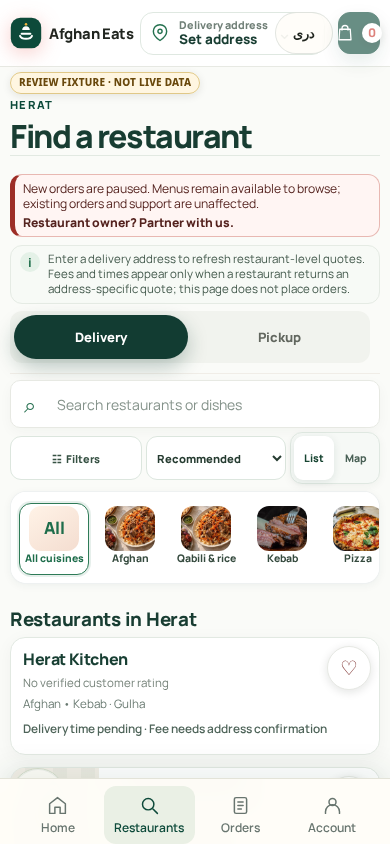
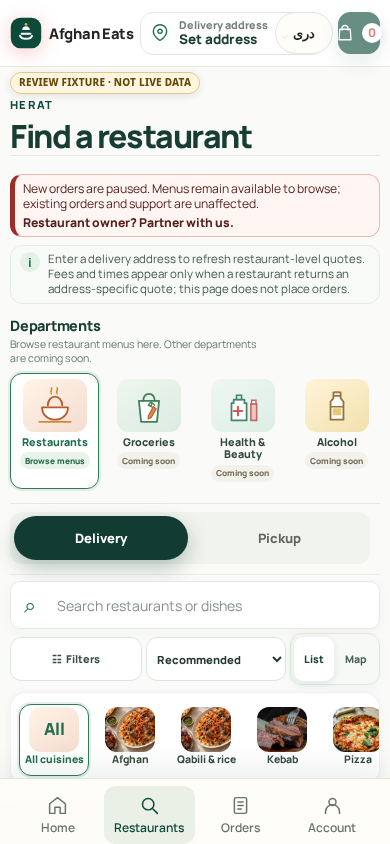
feat: add marketplace department placeholders to discovery

diff --git a/restaurants.html b/restaurants.html
@@ -19,7 +19,7 @@
   <link rel="stylesheet" href="/assets/restaurant-card-stability.css?v=20260905-2">
 <link rel="stylesheet" href="/assets/restaurants-mobile-fix.css?v=20260906-1">
 <link rel="stylesheet" href="/assets/design-2026.css?v=premium-experience-2"><link rel="stylesheet" href="/assets/premium-design-pass.css?v=premium-experience-2"><link rel="stylesheet" href="/assets/storefront.css?v=storefront-1">
-  <link rel="stylesheet" href="/assets/restaurant-listing-review.css?v=20261123-11">
+  <link rel="stylesheet" href="/assets/restaurant-listing-review.css?v=20261123-12">
 </head>
 <body class="ae-premium premium-customer restaurants-page">
   <a class="ae-skip-link" href="#restaurantGrid"><span class="en-copy">Skip to restaurant results</span><span class="fa-copy">رفتن به نتایج رستورانتها</span></a>
@@ -30,6 +30,51 @@
 <div class="actions"><button class="lang" type="button" onclick="toggleLang()" aria-label="Switch language">دری</button><a class="ae-account" href="/account"><svg class="ae-icon" width="22" height="22" viewBox="0 0 24 24" fill="none" stroke="currentColor" stroke-width="1.7" stroke-linecap="round" stroke-linejoin="round" aria-hidden="true"><circle cx="12" cy="8" r="4"/><path d="M4 21v-2a8 8 0 0 1 16 0v2"/></svg><span data-i18n="account">Account</span></a><a class="btn btn-primary ae-cart" href="/checkout" data-aria-en="Basket" data-aria-fa="سبد خرید" aria-label="Basket"><svg class="ae-icon" width="22" height="22" viewBox="0 0 24 24" fill="none" stroke="currentColor" stroke-width="1.7" stroke-linecap="round" stroke-linejoin="round" aria-hidden="true"><path d="M5 7h14l1 14H4L5 7Z"/><path d="M8 8V6a4 4 0 0 1 8 0v2"/></svg><span class="ae-cart-label"><span class="en-copy">Basket</span><span class="fa-copy">سبد</span></span><span class="cart-count badge-count">0</span></a></div></div></header>
   <main class="section soft"><div class="container">
     <div class="section-head restaurant-page-head"><div><span class="restaurant-page-kicker"><span class="en-copy">Herat</span><span class="fa-copy">هرات</span></span><h1><span class="en-copy">Find a restaurant</span><span class="fa-copy">رستورانت پیدا کنید</span></h1><p class="en-copy">Search by restaurant, dish or cuisine.</p><p class="fa-copy">بر اساس رستورانت، غذا یا دسته جستجو کنید.</p></div></div>
+    <nav class="ae-department-nav" aria-label="Marketplace departments" data-aria-en="Marketplace departments" data-aria-fa="بخشهای فروشگاه">
+      <div class="ae-department-heading"><div><h2 id="aeDepartmentHeading"><span class="en-copy">Departments</span><span class="fa-copy">بخشها</span></h2><p><span class="en-copy">Browse restaurant menus here. Other departments are coming soon.</span><span class="fa-copy">منوهای رستورانتها را اینجا ببینید؛ بخشهای دیگر بهزودی.</span></p></div></div>
+      <div class="ae-department-row">
+        <a class="ae-department-tile is-active" data-department="restaurants" href="/restaurants" aria-current="page">
+          <span class="ae-department-art art-restaurants" aria-hidden="true"><svg class="ae-department-icon" viewBox="0 0 64 56" fill="none"><path d="M22 27c0-7 4.5-12 10-12s10 5 10 12" stroke="#b75c2a" stroke-width="2.6" stroke-linecap="round"/><path d="M14 30h36c0 10-8.1 17-18 17s-18-7-18-17Z" fill="#fff" stroke="#b75c2a" stroke-width="2.6" stroke-linejoin="round"/><path d="M10 50h44M27 11c-3-3 2-5 0-8m8 8c-3-3 2-5 0-8" stroke="#d18a37" stroke-width="2.3" stroke-linecap="round"/></svg></span>
+          <strong class="ae-department-name"><span class="en-copy">Restaurants</span><span class="fa-copy">رستورانتها</span></strong>
+          <span class="ae-department-status is-available"><span class="en-copy">Browse menus</span><span class="fa-copy">دیدن منوها</span></span>
+        </a>
+        <button class="ae-department-tile is-coming-soon" data-department="groceries" type="button" disabled>
+          <span class="ae-department-art art-groceries" aria-hidden="true"><svg class="ae-department-icon" viewBox="0 0 64 56" fill="none"><path d="M18 21h28l-3 29H21l-3-29Z" fill="#fff" stroke="#43805b" stroke-width="2.5" stroke-linejoin="round"/><path d="M24 22c0-7 3-11 8-11s8 4 8 11" stroke="#43805b" stroke-width="2.5"/><path d="m31 42 7-13 4 3-7 12-4 2v-4Z" fill="#e9883e" stroke="#bc5d2d" stroke-width="1.6"/><path d="m35 29 1-6 4 4m-4 2-5-2 4-5" stroke="#4f8c4c" stroke-width="2" stroke-linecap="round" stroke-linejoin="round"/></svg></span>
+          <strong class="ae-department-name"><span class="en-copy">Groceries</span><span class="fa-copy">مواد خوراکی</span></strong>
+          <span class="ae-department-status"><span class="en-copy">Coming soon</span><span class="fa-copy">بهزودی</span></span>
+        </button>
+        <button class="ae-department-tile is-coming-soon" data-department="health-beauty" type="button" disabled>
+          <span class="ae-department-art art-health" aria-hidden="true"><svg class="ae-department-icon" viewBox="0 0 64 56" fill="none"><path d="M19 19h15v5h3v24H16V24h3v-5Z" fill="#fff" stroke="#45836c" stroke-width="2.4" stroke-linejoin="round"/><path d="M23 13h7v6h-7z" fill="#d9eee0" stroke="#45836c" stroke-width="2.2"/><path d="M25 29v12m-6-6h12" stroke="#d45b59" stroke-width="3" stroke-linecap="round"/><path d="M43 25h8v23h-8z" fill="#f4c7c1" stroke="#bd6a61" stroke-width="2.2"/><path d="M44 20h6v5h-6z" fill="#fff" stroke="#bd6a61" stroke-width="2"/></svg></span>
+          <strong class="ae-department-name"><span class="en-copy">Health &amp; Beauty</span><span class="fa-copy">صحت و زیبایی</span></strong>
+          <span class="ae-department-status"><span class="en-copy">Coming soon</span><span class="fa-copy">بهزودی</span></span>
+        </button>
+        <button class="ae-department-tile is-coming-soon" data-department="alcohol" type="button" disabled>
+          <span class="ae-department-art art-alcohol" aria-hidden="true"><svg class="ae-department-icon" viewBox="0 0 64 56" fill="none"><path d="M27 9h10v8l4 5v25H23V22l4-5V9Z" fill="#fff" stroke="#92733c" stroke-width="2.5" stroke-linejoin="round"/><path d="M27 14h10m-14 15h18" stroke="#92733c" stroke-width="2.3"/><path d="M26 31h12v10H26z" fill="#e6c774"/><path d="M30 9h4" stroke="#c87643" stroke-width="2.5" stroke-linecap="round"/></svg></span>
+          <strong class="ae-department-name"><span class="en-copy">Alcohol</span><span class="fa-copy">مشروبات الکلی</span></strong>
+          <span class="ae-department-status"><span class="en-copy">Coming soon</span><span class="fa-copy">بهزودی</span></span>
+        </button>
+        <button class="ae-department-tile is-coming-soon" data-department="convenience" type="button" disabled>
+          <span class="ae-department-art art-convenience" aria-hidden="true"><svg class="ae-department-icon" viewBox="0 0 64 56" fill="none"><path d="M18 21h28l-3 29H21l-3-29Z" fill="#fff" stroke="#4e7890" stroke-width="2.5" stroke-linejoin="round"/><path d="M24 22c0-7 3-11 8-11s8 4 8 11" stroke="#4e7890" stroke-width="2.5"/><path d="M32 29v13m-6.5-6.5h13" stroke="#e08a42" stroke-width="3" stroke-linecap="round"/></svg></span>
+          <strong class="ae-department-name"><span class="en-copy">Convenience</span><span class="fa-copy">ضروریات روزانه</span></strong>
+          <span class="ae-department-status"><span class="en-copy">Coming soon</span><span class="fa-copy">بهزودی</span></span>
+        </button>
+        <button class="ae-department-tile is-coming-soon" data-department="gifts" type="button" disabled>
+          <span class="ae-department-art art-gifts" aria-hidden="true"><svg class="ae-department-icon" viewBox="0 0 64 56" fill="none"><path d="M15 27h34v23H15z" fill="#fff" stroke="#ad5f69" stroke-width="2.4"/><path d="M12 21h40v9H12z" fill="#f2b8ae" stroke="#ad5f69" stroke-width="2.4"/><path d="M32 21v29" stroke="#ad5f69" stroke-width="2.4"/><path d="M31 21c-12 1-14-8-8-10 5-1 8 5 9 10Zm2 0c12 1 14-8 8-10-5-1-8 5-9 10Z" fill="#f7db7f" stroke="#ad5f69" stroke-width="2.1" stroke-linejoin="round"/></svg></span>
+          <strong class="ae-department-name"><span class="en-copy">Gifts</span><span class="fa-copy">هدایا</span></strong>
+          <span class="ae-department-status"><span class="en-copy">Coming soon</span><span class="fa-copy">بهزودی</span></span>
+        </button>
+        <button class="ae-department-tile is-coming-soon" data-department="electronics" type="button" disabled>
+          <span class="ae-department-art art-electronics" aria-hidden="true"><svg class="ae-department-icon" viewBox="0 0 64 56" fill="none"><rect x="12" y="11" width="29" height="37" rx="4" fill="#fff" stroke="#5a6c9e" stroke-width="2.5"/><rect x="17" y="16" width="19" height="25" rx="1.5" fill="#cbd7f5"/><circle cx="26.5" cy="44.5" r="1.4" fill="#5a6c9e"/><rect x="39" y="24" width="13" height="24" rx="3" fill="#f5c4a8" stroke="#a76c55" stroke-width="2.3"/><path d="M43 28h5m-3 15h1" stroke="#a76c55" stroke-width="1.8" stroke-linecap="round"/></svg></span>
+          <strong class="ae-department-name"><span class="en-copy">Electronics</span><span class="fa-copy">لوازم الکترونیکی</span></strong>
+          <span class="ae-department-status"><span class="en-copy">Coming soon</span><span class="fa-copy">بهزودی</span></span>
+        </button>
+        <button class="ae-department-tile is-coming-soon" data-department="pet-supplies" type="button" disabled>
+          <span class="ae-department-art art-pets" aria-hidden="true"><svg class="ae-department-icon" viewBox="0 0 64 56" fill="none"><path d="M16 35h32l-4 12H20l-4-12Z" fill="#fff" stroke="#6c7094" stroke-width="2.5" stroke-linejoin="round"/><path d="M19 35c2 5 8 8 13 8s11-3 13-8" fill="#b9d8e1"/><ellipse cx="24" cy="24" rx="3.2" ry="4" fill="#d99a78"/><ellipse cx="31" cy="20" rx="3.2" ry="4" fill="#d99a78"/><ellipse cx="38" cy="24" rx="3.2" ry="4" fill="#d99a78"/><path d="M27 28c0-3 2-5 5-5s5 2 5 5-2 5-5 5-5-2-5-5Z" fill="#d99a78"/></svg></span>
+          <strong class="ae-department-name"><span class="en-copy">Pet Supplies</span><span class="fa-copy">لوازم حیوانات خانگی</span></strong>
+          <span class="ae-department-status"><span class="en-copy">Coming soon</span><span class="fa-copy">بهزودی</span></span>
+        </button>
+      </div>
+    </nav>
     <p class="discovery-link"><a href="/discover"><span class="en-copy">Explore more Herat restaurants on Google Maps →</span><span class="fa-copy">رستورانتهای بیشتر هرات در گوگل مپس ←</span></a></p><div class="restaurant-discovery-bar">
       <div class="restaurant-service-row"><div class="mode-tabs"><button data-mode="delivery" onclick="setMode('delivery')" data-i18n="delivery"></button><button data-mode="pickup" onclick="setMode('pickup')" data-i18n="pickup"></button></div><div class="restaurant-view-toggle" role="group" aria-label="Restaurant view"><button type="button" class="active" data-restaurant-view="list" aria-pressed="true"><span class="en-copy">List</span><span class="fa-copy">فهرست</span></button><button type="button" data-restaurant-view="map" aria-pressed="false"><span class="en-copy">Map</span><span class="fa-copy">نقشه</span></button></div><div id="addressSummary" class="address-summary"></div></div>
       <div class="filters restaurant-filter-row"><div class="restaurant-search-wrap"><span aria-hidden="true">⌕</span><input aria-label="Search restaurants or food" data-aria-en="Search restaurants or food" data-aria-fa="جستجوی رستورانت یا غذا" id="search" type="search" data-ph-en="Search restaurants or food" data-ph-fa="جستجوی رستورانت یا غذا" oninput="advancedRestaurantSearch()"></div><select id="sort" aria-label="Sort restaurants" onchange="advancedRestaurantSearch()"><option value="recommended" data-i18n="recommended"></option><option value="rating" data-en="Rating" data-fa="امتیاز">Rating</option><option value="fastest" data-i18n="fastest"></option><option value="fee" data-i18n="fee"></option></select><button class="chip" data-filter="open" onclick="toggleAdvancedFilter(this)" data-i18n="openNow"></button><button class="chip" data-filter="favorites" onclick="toggleAdvancedFilter(this)" data-i18n="favorites"></button></div>

diff --git a/tests/customer-journey.spec.js b/tests/customer-journey.spec.js
@@ -914,6 +914,58 @@ test('mobile filters stage before applying and manual address quotes preserve th
   await expect(page.locator('#aeListingAreaNote')).toContainText('address-specific quote');
 });
 
+test('marketplace departments keep restaurant browsing active and other sections clearly coming soon', async ({page})=>{
+  await clearPublicRestaurantFallbacks(page);
+  await mockApi(page,{restaurants:[restaurant,directoryListing]});
+  let orderSubmissions=0;
+  page.on('request',request=>{if(new URL(request.url()).pathname.endsWith('/orders.place'))orderSubmissions+=1;});
+  await page.goto('/restaurants');
+  const departments=page.getByRole('navigation',{name:'Marketplace departments'});
+  await expect(departments).toBeVisible();
+  await expect(departments.locator('[data-department]')).toHaveCount(8);
+  await expect(departments.locator('a')).toHaveCount(1);
+  const restaurantsTile=departments.locator('[data-department="restaurants"]');
+  await expect(restaurantsTile).toHaveAttribute('href','/restaurants');
+  await expect(restaurantsTile).toHaveAttribute('aria-current','page');
+  await expect(restaurantsTile).toContainText('Restaurants');
+  await expect(restaurantsTile).toContainText('Browse menus');
+  const futureDepartments=[
+    ['groceries','Groceries'],['health-beauty','Health & Beauty'],['alcohol','Alcohol'],
+    ['convenience','Convenience'],['gifts','Gifts'],['electronics','Electronics'],['pet-supplies','Pet Supplies']
+  ];
+  for(const [key,label] of futureDepartments){
+    const tile=departments.locator(`[data-department="${key}"]`);
+    await expect(tile).toBeDisabled();
+    await expect(tile).toContainText(label);
+    await expect(tile).toContainText('Coming soon');
+  }
+  await page.setViewportSize({width:390,height:844});
+  const mobileDepartmentLayout=await page.evaluate(()=>{
+    const row=document.querySelector('.ae-department-row');
+    return{viewport:window.innerWidth,pageWidth:document.documentElement.scrollWidth,rowClientWidth:row.clientWidth,rowScrollWidth:row.scrollWidth};
+  });
+  expect(mobileDepartmentLayout.pageWidth).toBeLessThanOrEqual(mobileDepartmentLayout.viewport+1);
+  expect(mobileDepartmentLayout.rowScrollWidth).toBeGreaterThan(mobileDepartmentLayout.rowClientWidth);
+  await page.evaluate(()=>localStorage.setItem('ae_lang','fa'));
+  await page.reload();
+  await expect(page.locator('html')).toHaveAttribute('dir','rtl');
+  const departmentsFa=page.getByRole('navigation',{name:'بخشهای فروشگاه'});
+  await expect(departmentsFa).toBeVisible();
+  await expect(departmentsFa.locator('[data-department="restaurants"]')).toContainText('رستورانتها');
+  await expect(departmentsFa.locator('[data-department="restaurants"]')).toContainText('دیدن منوها');
+  const futureLabelsFa=[
+    ['groceries','مواد خوراکی'],['health-beauty','صحت و زیبایی'],['alcohol','مشروبات الکلی'],
+    ['convenience','ضروریات روزانه'],['gifts','هدایا'],['electronics','لوازم الکترونیکی'],['pet-supplies','لوازم حیوانات خانگی']
+  ];
+  for(const [key,label] of futureLabelsFa){
+    const tile=departmentsFa.locator(`[data-department="${key}"]`);
+    await expect(tile).toBeDisabled();
+    await expect(tile).toContainText(label);
+    await expect(tile).toContainText('بهزودی');
+  }
+  expect(orderSubmissions).toBe(0);
+});
+
 test('discovery review frames cover English and Dari at desktop, tablet, mobile and 360 px stress widths', async ({page})=>{
   const noRatings={...restaurant,rating:null,total_reviews:0,delivery_time_min:20,delivery_time_max:35,delivery_fee_min:50};
   await clearPublicRestaurantFallbacks(page);
@@ -921,6 +973,8 @@ test('discovery review frames cover English and Dari at desktop, tablet, mobile 
   await page.setViewportSize({width:1440,height:1000});
   await page.goto('/restaurants');
   await expect(page.locator('#restaurantGrid .restaurant-card')).toHaveCount(2);
+  await expect(page.locator('.ae-department-nav')).toBeVisible();
+  await expect(page.locator('.ae-department-row [data-department]')).toHaveCount(8);
   fs.mkdirSync(path.join(__dirname,'../visual-proof'),{recursive:true});
   const captureWidths=async(locale)=>{
     for(const [width,height,label] of [[1440,1000,'desktop'],[768,1024,'tablet'],[390,844,'mobile'],[360,800,'stress']]){
@@ -929,11 +983,14 @@ test('discovery review frames cover English and Dari at desktop, tablet, mobile 
       if(width<=390){
         const mobileLayout=await page.evaluate(()=>{
           const tile=document.querySelector('.dish-category-chip')?.getBoundingClientRect();
+          const departmentRow=document.querySelector('.ae-department-row');
           const sort=document.querySelector('#sort')?.getBoundingClientRect();
-          return{tileFullyVisible:Boolean(tile&&tile.left>=0&&tile.right<=window.innerWidth),sortWidth:sort?.width||0};
+          return{tileFullyVisible:Boolean(tile&&tile.left>=0&&tile.right<=window.innerWidth),sortWidth:sort?.width||0,departmentScrolls:Boolean(departmentRow&&departmentRow.scrollWidth>departmentRow.clientWidth),pageWidth:document.documentElement.scrollWidth};
         });
         expect(mobileLayout.tileFullyVisible).toBe(true);
         expect(mobileLayout.sortWidth).toBeGreaterThanOrEqual(138);
+        expect(mobileLayout.departmentScrolls).toBe(true);
+        expect(mobileLayout.pageWidth).toBeLessThanOrEqual(width+1);
       }
       await stampFixtureLabel(page);
       await page.screenshot({path:path.join(__dirname,`../visual-proof/restaurant-discovery-review-fixture-${locale}-${label}-${width}x${height}.png`),animations:'disabled'});
@@ -961,6 +1018,8 @@ test('discovery review frames cover English and Dari at desktop, tablet, mobile 
   await expect(page.locator('#restaurantGrid .restaurant-card')).toHaveCount(2);
   await expect(page.locator('#search')).toHaveAttribute('placeholder','نام رستورانت یا غذا را جستجو کنید');
   await expect(page.locator('.dish-category-chip[data-dish-category="kebab"]')).toContainText('کباب');
+  await expect(page.locator('[data-department="groceries"]')).toContainText('بهزودی');
+  await expect(page.locator('[data-department="pet-supplies"]')).toContainText('لوازم حیوانات خانگی');
   await expect(page.locator('#restaurantGrid .restaurant-card').first()).toContainText('آشپزخانه هرات');
   await expect(page.locator('#restaurantGrid .browse-card-meta').first()).toContainText('زمان ارسال در انتظار تأیید');
   await expect(page.locator('#restaurantGrid .browse-card-meta').first()).not.toContainText('۲۰–۳۵');
@@ -1052,11 +1111,11 @@ test('sparse and unavailable-area review frames are clearly named fixture states
   await page.goto('/restaurants');
   await expect(page.locator('#restaurantGrid .delivery-inline-notice')).toContainText('Delivery is not active at this address yet.');
   await expect(page.locator('#restaurantGrid .directory-results')).toContainText('Jumeirah Fast Food');
-  const publicDirectoryCard=page.locator('#restaurantGrid .directory-card').first();
-  await expect(publicDirectoryCard).toBeVisible();
-  await expect.poll(async()=>page.locator('#restaurantGrid .directory-card').evaluateAll(cards=>cards.length?cards[0].getBoundingClientRect().top:Number.POSITIVE_INFINITY)).toBeLessThan(760);
+  await expect(page.locator('#aeListingAreaNote')).toContainText('address-specific quote');
+  await expect(page.locator('#restaurantGrid .directory-card').first()).toBeVisible();
+  await page.setViewportSize({width:390,height:1400});
   await stampFixtureLabel(page);
-  await page.screenshot({path:path.join(__dirname,'../visual-proof/restaurant-discovery-review-fixture-unavailable-address-en-mobile-390x844.png'),animations:'disabled'});
+  await page.screenshot({path:path.join(__dirname,'../visual-proof/restaurant-discovery-review-fixture-unavailable-address-en-mobile-full-page.png'),fullPage:true,animations:'disabled'});
 });
 
 test('browser Back from a public menu restores discovery search and active filters', async ({page})=>{

diff --git a/assets/restaurant-listing-review.css b/assets/restaurant-listing-review.css
@@ -49,6 +49,31 @@ html[dir="rtl"] .restaurants-page .restaurant-page-head h1 { letter-spacing: 0; 
 }
 html[dir="rtl"] .restaurant-page-kicker { letter-spacing: 0; text-transform: none; }
 
+.ae-department-nav { margin: 0 0 13px; padding: 10px 0 12px; border-bottom: 1px solid var(--ae-discovery-line); }
+.ae-department-heading { display: flex; align-items: baseline; justify-content: space-between; gap: 14px; margin: 0 0 8px; }
+.ae-department-heading h2 { margin: 0 0 3px; color: var(--ae-discovery-ink); font-size: 1.04rem; font-weight: 850; }
+.ae-department-heading p { margin: 0; color: var(--ae-discovery-muted); font-size: .76rem; line-height: 1.45; }
+.ae-department-row { display: flex; align-items: stretch; gap: 8px; min-width: 0; overflow-x: auto; overscroll-behavior-inline: contain; padding: 2px 2px 7px; scroll-padding-inline: 2px; scroll-snap-type: x proximity; scrollbar-width: thin; -webkit-overflow-scrolling: touch; }
+.ae-department-tile { display: grid; flex: 1 0 108px; grid-template-rows: 60px auto auto; align-content: start; justify-items: center; gap: 6px; min-width: 108px; max-width: 148px; min-height: 128px; padding: 7px 6px 8px; border: 1px solid transparent; border-radius: 15px; background: transparent; color: #344b3e; font: inherit; text-align: center; text-decoration: none; scroll-snap-align: start; }
+.ae-department-tile.is-active { border-color: #2e7b57; background: #fff; box-shadow: 0 0 0 2px rgba(46,123,87,.11); }
+.ae-department-tile[href]:hover { border-color: #b9d4c0; background: #fff; }
+.ae-department-tile:focus-visible { outline: 3px solid #a96b10; outline-offset: 2px; }
+.ae-department-tile:disabled { cursor: not-allowed; opacity: 1; color: #66766c; }
+.ae-department-art { display: grid; width: 72px; height: 60px; place-items: center; overflow: hidden; border-radius: 14px; background: linear-gradient(145deg,#fff3e7,#f4ddd0); }
+.ae-department-icon { display: block; width: 52px; height: 49px; }
+.art-groceries { background: linear-gradient(145deg,#eef7ec,#dcebe1); }
+.art-health { background: linear-gradient(145deg,#eff7f2,#dceee5); }
+.art-alcohol { background: linear-gradient(145deg,#fff4d9,#f2e1ad); }
+.art-convenience { background: linear-gradient(145deg,#edf5fa,#dce9f0); }
+.art-gifts { background: linear-gradient(145deg,#fff0ee,#f4d9d8); }
+.art-electronics { background: linear-gradient(145deg,#eef0fb,#d9def3); }
+.art-pets { background: linear-gradient(145deg,#eff5f6,#dcebed); }
+.ae-department-name { max-width: 100%; color: #30483b; font-size: .75rem; font-weight: 850; line-height: 1.2; }
+.ae-department-tile.is-active .ae-department-name { color: #1e6d4b; }
+.ae-department-status { display: inline-flex; align-items: center; justify-content: center; min-height: 18px; padding: 2px 7px; border-radius: 999px; background: #f3f1eb; color: #756a55; font-size: .61rem; font-weight: 800; line-height: 1.15; white-space: nowrap; }
+.ae-department-status.is-available { background: #e8f3e9; color: #246b48; }
+html[dir="rtl"] .ae-department-heading { text-align: start; }
+
 .ae-skip-link {
   position: fixed;
   z-index: 2000;
@@ -748,6 +773,16 @@ body.restaurants-page #aePlatformStatus .ae-platform-inner { padding-block: 8px;
   .restaurants-page .restaurant-page-head { margin-bottom: 5px; padding-bottom: 6px; }
   .restaurants-page .restaurant-page-head h1 { font-size: 1.55rem; line-height: 1.18; }
   .restaurants-page .restaurant-page-head p { display: none; }
+  .restaurants-page .ae-department-nav { margin-bottom: 8px; padding: 6px 0 8px; }
+  .restaurants-page .ae-department-heading { align-items: flex-start; margin-bottom: 6px; }
+  .restaurants-page .ae-department-heading h2 { margin-bottom: 2px; font-size: .9rem; }
+  .restaurants-page .ae-department-heading p { max-width: 42ch; font-size: .66rem; line-height: 1.35; }
+  .restaurants-page .ae-department-row { gap: 6px; margin-inline: -3px; padding: 2px 3px 6px; scroll-padding-inline: 3px; }
+  .restaurants-page .ae-department-tile { flex: 0 0 96px; grid-template-rows: 53px auto auto; gap: 4px; min-width: 96px; min-height: 116px; padding: 5px 4px 6px; border-radius: 12px; }
+  .restaurants-page .ae-department-art { width: 64px; height: 53px; border-radius: 11px; }
+  .restaurants-page .ae-department-icon { width: 46px; height: 44px; }
+  .restaurants-page .ae-department-name { font-size: .67rem; line-height: 1.15; }
+  .restaurants-page .ae-department-status { min-height: 17px; padding: 2px 5px; font-size: .55rem; }
   .restaurants-page .ae-listing-browse-note { margin-bottom: 7px; padding: 7px 9px; }
   .restaurants-page .ae-listing-browse-note { padding-block: 6px; }
   .restaurants-page .ae-listing-browse-note p { font-size: .72rem; line-height: 1.3; }
@@ -787,6 +822,9 @@ body.restaurants-page #aePlatformStatus .ae-platform-inner { padding-block: 8px;
   .restaurants-page .restaurant-toolbar { grid-template-columns: minmax(0,1fr) 140px 90px !important; gap: 4px; }
   .restaurants-page .restaurant-mobile-filter-trigger { font-size: .68rem; }
   .restaurants-page .restaurant-toolbar > .restaurant-view-toggle button { font-size: .66rem; }
+  .restaurants-page .ae-department-row { gap: 5px; }
+  .restaurants-page .ae-department-tile { flex-basis: 89px; min-width: 89px; padding-inline: 3px; }
+  .restaurants-page .ae-department-status { font-size: .52rem; }
   .restaurants-page .dish-category-chip { flex-basis: 70px !important; }
   .restaurants-page .dish-category-image { width: 50px; height: 45px; }
 }

diff --git a/visual-proof/README.md b/visual-proof/README.md
@@ -15,11 +15,20 @@ The dialog is shown with an example address entered but not submitted. These fra
 
 The submitted address uses the existing read-only `orders.quote` GET contract for eligible restaurants in the currently loaded list. Its request contains only `restaurantId`, `fulfillment`, `deliveryArea`, and `deliveryAddress`; basket data and order submission are not involved. The [dynamic-field map](restaurant-discovery-data-field-map.md) documents the flow and its quote/error display rules.
 
+## Marketplace departments
+
+The reference-inspired department strip is separate from restaurant cuisine filters. Restaurants is the only active browsing link; Groceries, Health & Beauty, Alcohol, Convenience, Gifts, Electronics, and Pet Supplies are disabled and labeled **Coming soon** (Dari: **بهزودی**). No non-restaurant inventory, catalogue, or order flow is connected. Ordering remains paused site-wide.
+
+| Language | Desktop | Mobile |
+|---|---|---|
+| English | [1440 × 1000](restaurant-discovery-review-fixture-en-desktop-1440x1000.png) | [390 × 844](restaurant-discovery-review-fixture-en-mobile-390x844.png) |
+| Dari (RTL) | — | [390 × 844](restaurant-discovery-review-fixture-fa-mobile-390x844.png) |
+
 ## Restaurant-listing layout overview
 
 ![Restaurant discovery contact sheet](restaurant-discovery-contact-sheet.png)
 
-The contact sheet summarizes the base browsing layout. Use the individual frames below for current listing copy and the address-dialog screenshots above for the new interaction.
+The refreshed contact sheet shows the current viewport fixtures in pairs: English on the left and Dari/RTL on the right, with desktop, tablet, mobile, and 360 px stress views from top to bottom. Use the individual frames below for exact viewport sizes.
 
 ## Populated catalogue fixtures
 
@@ -31,12 +40,12 @@ The contact sheet summarizes the base browsing layout. Use the individual frames
 ## Distinct catalogue states
 
 - **Sparse catalogue:** [English desktop, 1440 × 1000](restaurant-discovery-review-fixture-sparse-en-desktop-1440x1000.png), with one restaurant and unsupported rating/delivery values withheld.
-- **Delivery unavailable at the entered address:** [English mobile, 390 × 844](restaurant-discovery-review-fixture-unavailable-address-en-mobile-390x844.png). A failed address quote is shown separately from public menu browsing; a public restaurant/menu listing remains visible.
+- **Delivery unavailable at the entered address:** [English mobile, full page at 390 px width](restaurant-discovery-review-fixture-unavailable-address-en-mobile-full-page.png). A failed address quote is shown separately from public menu browsing; a public restaurant/menu listing remains visible.
 
 ## Data and regression notes
 
 - [Dynamic-field mapping](restaurant-discovery-data-field-map.md) explains which catalogue, quote, and verified-location fields are allowed to appear.
-- [Customer journey regression tests](../tests/customer-journey.spec.js) include exact quote-contract checks, stale/in-flight quote invalidation, bilingual viewport checks, mobile overflow checks, and the named fixture captures.
+- [Customer journey regression tests](../tests/customer-journey.spec.js) include exact quote-contract checks, stale/in-flight quote invalidation, department availability state, bilingual viewport checks, mobile overflow checks, and the named fixture captures.
 - [Ordering-pause regression tests](../tests/ordering-pause.spec.js) preserve the paused-ordering / public-menu-browsing distinction.
 - The organization page was not changed: Herat service area, `support@afghaneats.net`, replies within three business days, and the multi-location caveat remain intact.
 

diff --git a/visual-proof/restaurant-discovery-data-field-map.md b/visual-proof/restaurant-discovery-data-field-map.md
@@ -2,6 +2,12 @@
 
 **Review note:** The screenshot frames use named Playwright fixture data, not the live restaurant catalogue. This mapping describes the review implementation and the fields it is allowed to show. A quote requires a manual address entry; the default location label is not a delivery address or service-coverage check.
 
+## Marketplace departments
+
+| Screen element | Source / behavior | Display rule in this review |
+|---|---|---|
+| Department strip | Static markup in `restaurants.html`; does not read category inventory | Restaurants links to the existing restaurant listing and is the only active browsing department. Groceries, Health & Beauty, Alcohol, Convenience, Gifts, Electronics, and Pet Supplies are disabled controls labeled “Coming soon” / “بهزودی”. No non-restaurant catalogue, inventory, or order flow is connected. This row does not claim stock, delivery coverage, or order availability. Site-wide ordering remains paused. |
+
 ## Restaurant cards and listing
 
 | Screen element | Source field / origin | Display rule in this review |
